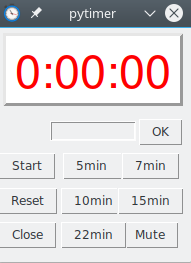
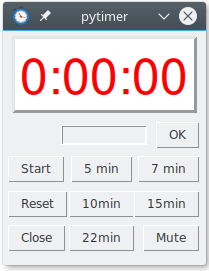
button tweak and screenshot

diff --git a/pytimer.py b/pytimer.py
@@ -321,7 +321,7 @@ root = tk.Tk()
 root.wm_title(WINDOW_TITLE)
 root.wm_geometry ("-100-100")
 root.resizable(width=False, height=False)
-root.geometry('{}x{}'.format(190, 230))
+root.geometry('{}x{}'.format(195, 230))
 
 img = PhotoImage(file='/home/swipe/bin/pytimer/pytimer_icon.png')
 root.tk.call('wm', 'iconphoto', root._w, img)
@@ -329,7 +329,7 @@ root.tk.call('wm', 'iconphoto', root._w, img)
 time_str = tk.StringVar()
 # create the time display label, give it a large font
 # label auto-adjusts to the font
-label_font = ('helvetica', 35)
+label_font = ('helvetica', 37)
 tk.Label(root, textvariable=time_str, font=label_font, bg='white',
          fg='red', relief='raised', bd=3).pack(fill='x', padx=5, pady=5)
 time_str.set(formatter(MINUTES * 60))
@@ -337,23 +337,23 @@ root.update()
 # create buttons
 # pack() positions the buttons below the label
 #tk.Button(root, text='Start', command=count_down).pack(side="left")
-tk.Button(root, text='Start', command=count_down).place(relx=.15, rely=.60, anchor="c")
+tk.Button(root, text='Start', command=count_down).place(relx=.0, rely=.60, anchor="w")
 #(relheight=.25, relwidth=.35)
-tk.Button(root, text='Reset', command=reset).place(relx=.15, rely=.75, anchor="c")
-tk.Button(root, text='Close', command=root.destroy).place(relx=.15, rely=.90, anchor="c")
-tk.Button(root, text='Mute', command=mute).place(relx=.80, rely=.90, anchor="c")
+tk.Button(root, text='Reset', command=reset).place(relx=.0, rely=.75, anchor="w")
+tk.Button(root, text='Close', command=root.destroy).place(relx=.0, rely=.90, anchor="w")
+tk.Button(root, text='Mute', command=mute).place(relx=.99, rely=.90, anchor="e")
 
 # Preset buttons
-tk.Button(root, text='5min ', command=five).place(relx=.50, rely=.60, anchor="c")
-tk.Button(root, text='10min', command=ten).place(relx=.50, rely=.75, anchor="c")
-tk.Button(root, text='15min', command=fifteen).place(relx=.80, rely=.75, anchor="c")
-tk.Button(root, text='7min', command=seven).place(relx=.80, rely=.60, anchor="c")
-tk.Button(root, text='22min', command=twentytwo).place(relx=.50, rely=.90, anchor="c")
+tk.Button(root, text='5 min', command=five).place(relx=.48, rely=.60, anchor="c")
+tk.Button(root, text='10min', command=ten).place(relx=.48, rely=.75, anchor="c")
+tk.Button(root, text='15min', command=fifteen).place(relx=.99, rely=.75, anchor="e")
+tk.Button(root, text='7 min', command=seven).place(relx=.99, rely=.60, anchor="e")
+tk.Button(root, text='22min', command=twentytwo).place(relx=.48, rely=.90, anchor="c")
 
 # Input box
 entry = Entry(root, width=10)
-entry.pack(side=TOP,padx=10,pady=10)
-tk.Button(root, text='OK', command=onok).place(relx=.85, rely=.45, anchor="c")
+entry.pack(side=TOP,padx=0,pady=7)
+tk.Button(root, text='OK', command=onok).place(relx=.99, rely=.45, anchor="e")
 
 
 # start the GUI event loop
